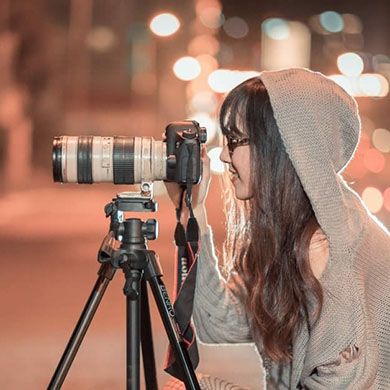
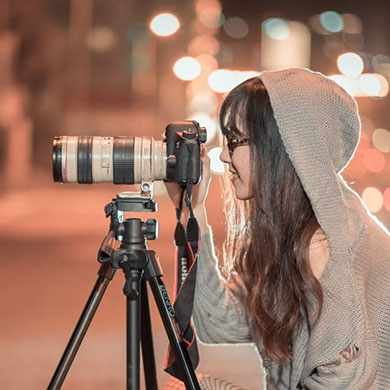
delete padding btn contact + compression png

diff --git a/css/style.css b/css/style.css
@@ -765,7 +765,7 @@ h4 {
 
 .black-background {
   background-color: rgba(165, 147, 99, 0.7);
-  padding: 40px 40px 40px 40px;
+  /*padding: 40px 40px 40px 40px; retrait padding*/
 }
 
 .bold-link {
